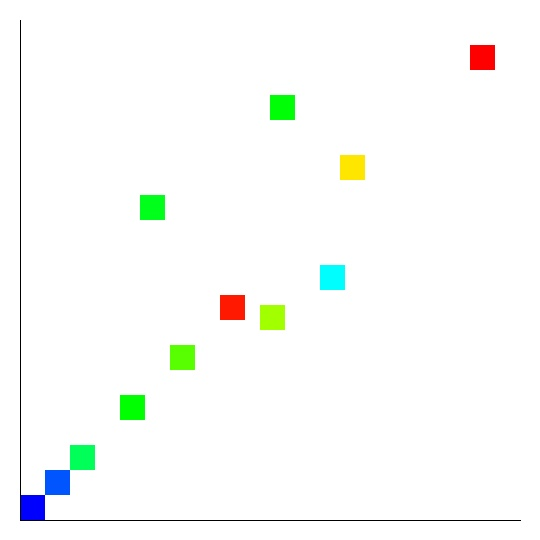
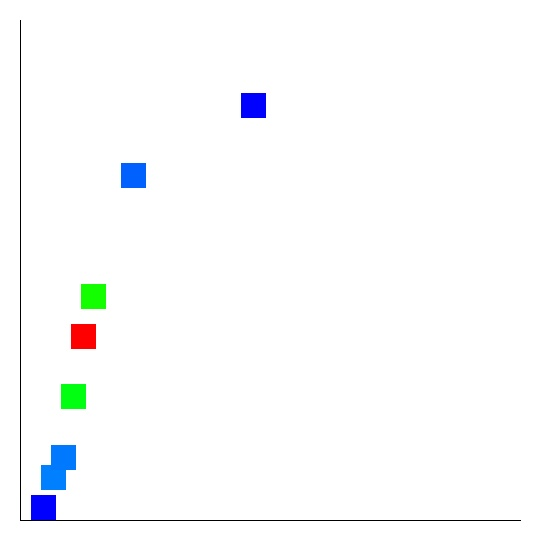
read real data

diff --git a/openCV440_testColorMap003/main.cpp b/openCV440_testColorMap003/main.cpp
@@ -17,7 +17,7 @@ int main()
 	//testContour2();
 
 	double x[10000], y[10000], z[10000];
-	string infile = "C:\\Users\\kzt20\\source\\repos\\openCV440_testColorMap003\\openCV440_testColorMap003\\testdata.txt";
+	string infile = "C:\\Users\\kzt20\\source\\repos\\openCV440_testColorMap003\\openCV440_testColorMap003\\testdata2.txt";
 	int numData = testReadData(infile,x,y,z);
 
     for (int i = 0; i < numData;i++) {
